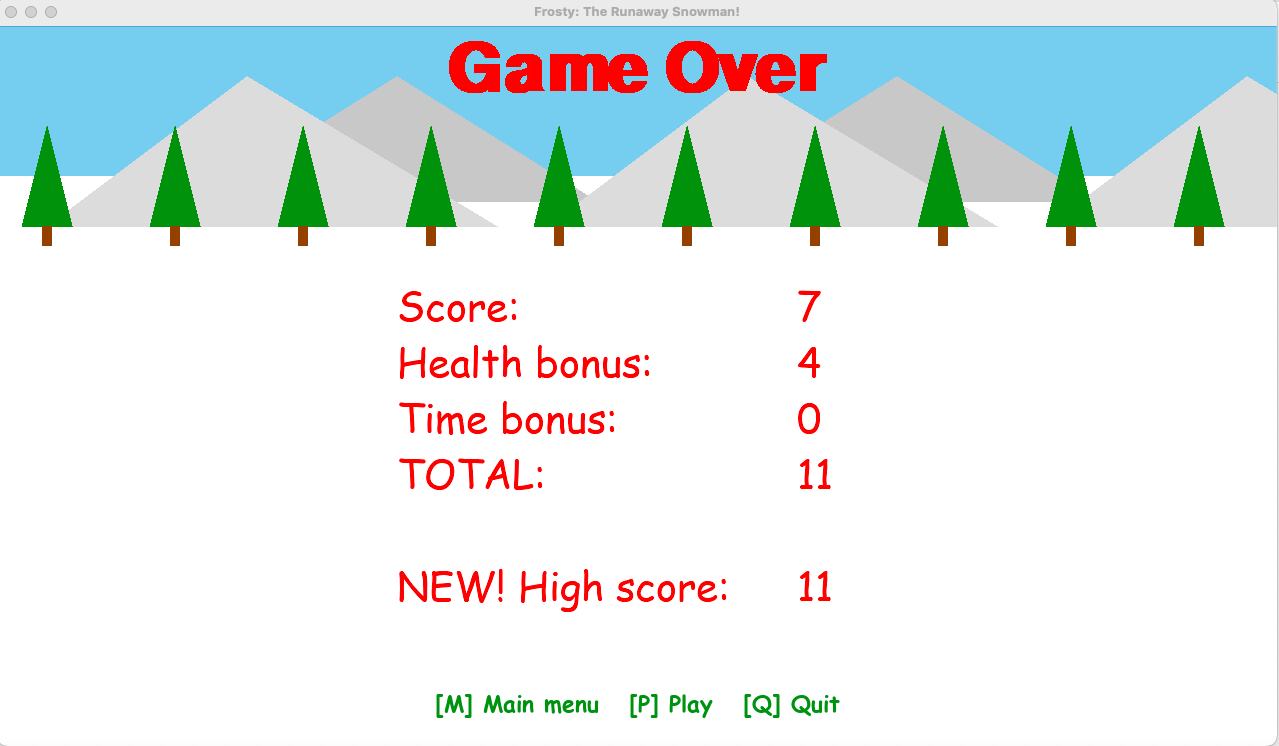
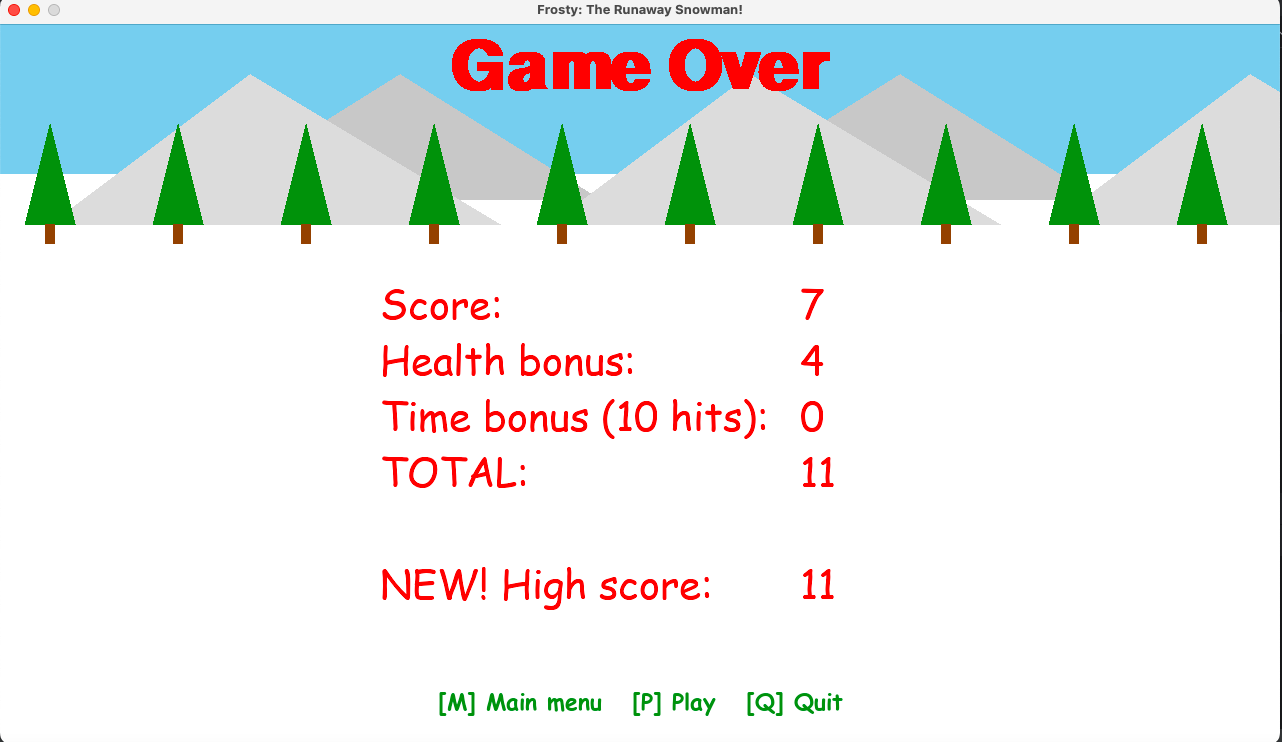
Time bonus 10 hits updated

diff --git a/src/screens/instructions.py b/src/screens/instructions.py
@@ -10,10 +10,10 @@ class InstructionScreen(BaseScreen):
         self.draw = draw
 
         self.title = "Instructions"
-        self.instruction_text = ("FROSTY HAS RUN AWAY!\n\n"
-                                 "The aim of the game is to hurl as many snowballs.\n"
-                                 "at Frosty before the time runs out.\n\n"
+        self.instruction_text = ("The aim of the game is to hurl as many snowballs at\n"
+                                 "Frosty the runaway snowman before the time runs out.\n\n"
                                  "But be careful...each time you hit Frosty, he gets faster!\n"
+                                 "But hit Frosty 10 times for an extra Time Bonus!\n\n"
                                  "Watch out...Santa and his friends reduces your health!\n\n"
                                  "Use the LEFT/RIGHT arrow keys to move the\n"
                                  "snowball at the bottom of the screen.\n\n"

diff --git a/src/screens/game_over.py b/src/screens/game_over.py
@@ -22,7 +22,7 @@ class GameOver(BaseScreen):
         game_over_text = (
             f"Score:\n"
             f"Health bonus:\n"
-            f"Time bonus:\n"
+            f"Time bonus (10 hits):\n"
             f"TOTAL:\n\n"
             f"{high_score_text}High score:"
         )
@@ -38,7 +38,7 @@ class GameOver(BaseScreen):
         return [game_over_text, game_over_values]
 
     def draw_text(self):
-        x_pos = 400
+        x_pos = 380
         y_pos = 250
         game_over_info = self.game_over_text()
         for info in game_over_info:

diff --git a/README.md b/README.md
@@ -4,7 +4,7 @@ Frosty the snowman has run away and is on the loose!
 
 The aim of the game is to throw snowballs at Frosty before the time runs out.
 
-But be careful...each time you hit Frosty, he gets faster!
+But be careful...each time you hit Frosty, he gets faster! But hitting him 10 times will score you an extra Time Bonus!
 
 👀 WATCH OUT! 👀 \
 Santa and his friends reduces heart health — so aim wisely and have fun!
